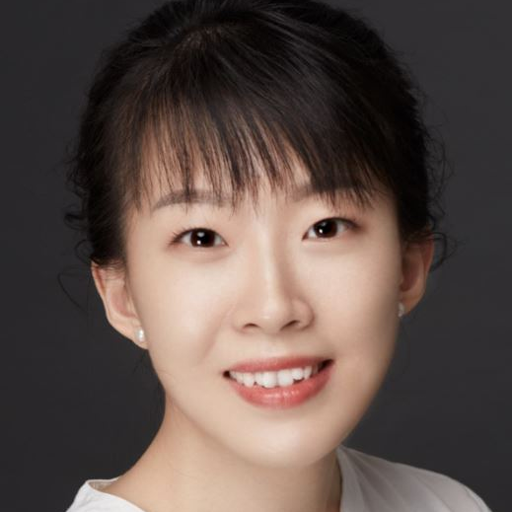
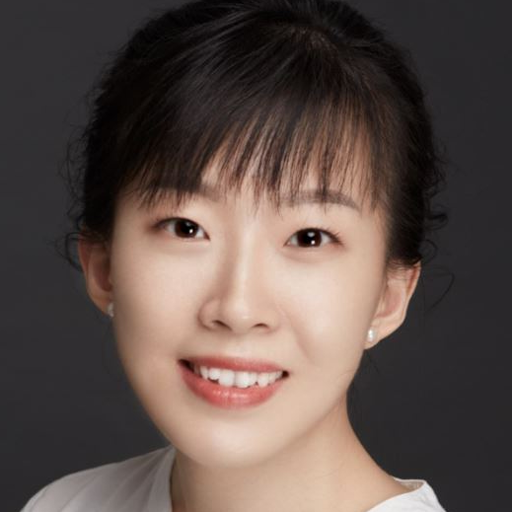
change

diff --git a/generate.py b/generate.py
@@ -23,8 +23,8 @@ def synthesis(G_file, latent_file):
 if __name__ == '__main__':
 
     # out = synthesis('checkpoints/stylegan2_512x512_with_pretrain_new_2/10000_2020-12-22_03-42-54/Gs.pth', 'projects/latent/image0000-step1000.npy')
-    out = synthesis('G_out.pth', 'projects/latent/image0000-step0011.npy')
-    # out = synthesis('checkpoints/stylegan2_512x512_with_pretrain/pretrain/Gs.pth', '/home/wxr/stylegan2_pytorch_backup/projects/latent/zj.npy')
+    # out = synthesis('G_out.pth', 'projects/latent/image0000-step1000.npy')
+    out = synthesis('G_out.pth', '/home/wxr/stylegan2_pytorch_backup/projects/latent/zj.npy')
     # G = stylegan2.models.load('checkpoints/stylegan2_512x512_with_pretrain/pretrain/Gs.pth').G_synthesis # 
     out.save('out.png')
     # for s in ['0041','0081','0121','0161','0200']:

diff --git a/blend.py b/blend.py
@@ -100,7 +100,7 @@ def blend_models_2(model_1, model_2, resolution, level, blend_width=None):
 
 
 def main(): 
-    G_out = blend_models("checkpoints/stylegan2_512x512_with_pretrain/pretrain/Gs.pth", "/home/wxr/stylegan2_pytorch_backup/checkpoints/stylegan2_512x512_with_pretrain_new_2/18500_2020-12-22_23-05-35/Gs.pth", 8, None)
+    G_out = blend_models("checkpoints/stylegan2_512x512_with_pretrain/pretrain/Gs.pth", "/home/wxr/stylegan2_pytorch_backup/checkpoints/stylegan2_512x512_with_pretrain_new_2/20000_2020-12-23_13-17-51/Gs.pth", 32, None)
     # G_out = blend_models( "checkpoints/stylegan2_512x512_with_pretrain_new_2/10000_2020-12-22_03-42-54/Gs.pth","checkpoints/stylegan2_512x512_with_pretrain/pretrain/Gs.pth", 256, None)
     G_out.save('G_out.pth')
 
